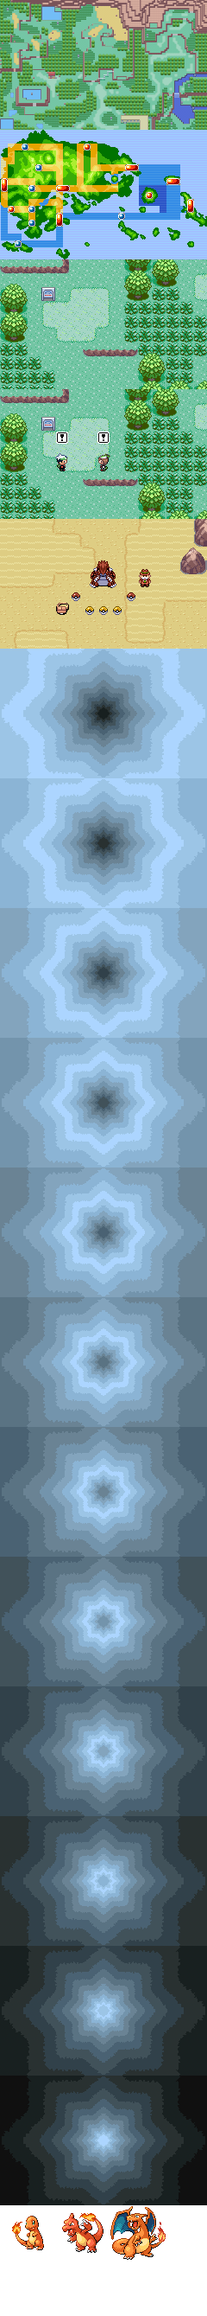
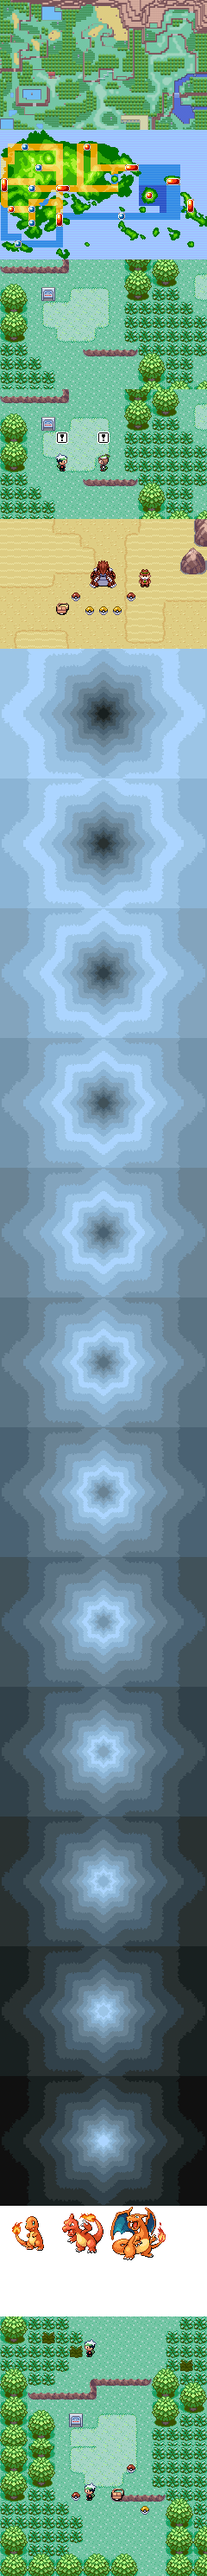
How to Play: Encounters and Item pickups panels (HBR-66)
Two panels after the drop, each over a picture from export-howto.py's sheet:
Route 101's grass with darkened patches, and items on the ground with a fallen
trainer's bag. The read flag's value goes to '2' so the menu's NEW comes back
for players who read the seven-panel version.

Claude-Session: https://claude.ai/code/session_01BUfB6vuHFfG64M3wNWtBao

diff --git a/web/src/ui/howto.test.ts b/web/src/ui/howto.test.ts
@@ -1,9 +1,9 @@
-// HOW TO PLAY (POK-429, POK-430): Cam's seven panels, NEXT through them, BACK and SKIP,
+// HOW TO PLAY (POK-429, POK-430, HBR-66): Cam's nine panels, NEXT through them, BACK and SKIP,
 // every word fits, and the pictures that move do.
 import { describe, expect, it, vi } from 'vitest';
 import { ART_H, EVOLVE_MS, FRAME_MS, HOWTO_KEY, PANELS, SHEET, confetti, evolveFrame, howToScreen, markHowToDue, takeHowToDue } from './howto';
 import { measure, wrapText } from './emerald';
-import { HOWTO_READ_KEY, howToRead, markHowToRead } from './howto-due';
+import { HOWTO_READ, HOWTO_READ_KEY, howToRead, markHowToRead } from './howto-due';
 import { W } from './screens';
 import { fakeCanvas } from './fakecanvas';
 import type { DrawnScreen } from './stage';
@@ -23,10 +23,12 @@ describe('the HOW TO PLAY screen', () => {
   const screenAt = (t = 0, skin = 0, onDone = vi.fn(), redraw?: () => void) =>
     howToScreen(() => ({ skin, onDone, redraw, now: () => t }));
 
-  it("is Cam's seven sections, in his order", () => {
+  it("is Cam's nine sections, in his order", () => {
     expect(PANELS.map((p) => p.title)).toEqual([
       'Start in Safari',
       'Where we flying?',
+      'Encounters',
+      'Item pickups',
       'Weezing Fog',
       'Leveling up',
       'Battles',
@@ -38,7 +40,7 @@ describe('the HOW TO PLAY screen', () => {
   it('opens on the Safari with NEXT and SKIP, NEXT first so A alone clicks through', () => {
     const { painted, byId } = paint(screenAt());
     expect(byId('howto-heading')!.text).toBe('Start in Safari');
-    expect(byId('howto-page')!.text).toBe('1/7');
+    expect(byId('howto-page')!.text).toBe('1/9');
     const buttons = painted.widgets.filter((w) => w.onPress).map((w) => w.id);
     expect(buttons).toEqual(['howto-next', 'howto-skip']);
   });
@@ -56,7 +58,7 @@ describe('the HOW TO PLAY screen', () => {
     expect(last.painted.widgets.filter((w) => w.onPress).map((w) => w.id)).toEqual(['howto-done', 'howto-back']);
     press(screen, 'howto-done');
     expect(onDone).toHaveBeenCalledTimes(1);
-    expect(paint(screen).byId('howto-page')!.text, 'opened again, it starts at the top').toBe('1/7');
+    expect(paint(screen).byId('howto-page')!.text, 'opened again, it starts at the top').toBe('1/9');
   });
 
   it('leaves from any panel on SKIP or B', () => {
@@ -67,7 +69,7 @@ describe('the HOW TO PLAY screen', () => {
     press(screen, 'howto-next');
     screen.back!();
     expect(onDone).toHaveBeenCalledTimes(2);
-    expect(paint(screen).byId('howto-page')!.text, 'B starts it over too').toBe('1/7');
+    expect(paint(screen).byId('howto-page')!.text, 'B starts it over too').toBe('1/9');
   });
 
   it('keeps the buttons in one place from panel to panel', () => {
@@ -115,21 +117,30 @@ describe('the HOW TO PLAY screen', () => {
 
   it('draws each picture off the sheet, and the fog over the whole screen', () => {
     const screen = screenAt(0, 2);
-    const rows: number[] = [];
-    for (let i = 0; i < 5; i++) {
+    const rows: Record<string, number> = {};
+    for (let i = 0; i < PANELS.length; i++) {
       const { pictures, byId } = paint(screen);
-      const sheet = pictures.filter((p) => p.name === SHEET);
-      rows.push(sheet[0].sy);
-      if (byId('howto-heading')!.text === 'Weezing Fog') {
+      const title = byId('howto-heading')!.text;
+      rows[title] = pictures.filter((p) => p.name === SHEET)[0]?.sy;
+      if (title === 'Weezing Fog') {
         const fog = pictures.filter((p) => p.name === '/field-sprites/fog.png');
         // Five tiles high down the 320 and four across the 240, then the picture's own.
         expect(fog.filter((p) => p.y === 0).length).toBeGreaterThanOrEqual(4);
         expect(Math.max(...fog.map((p) => p.y))).toBeGreaterThanOrEqual(256);
       }
-      press(screen, 'howto-next');
+      if (i < PANELS.length - 1) press(screen, 'howto-next');
     }
-    expect(rows.slice(0, 3)).toEqual([0, ART_H, ART_H * 2]);
-    expect(rows[4], 'the battle').toBe(ART_H * 3);
+    // tools/br/export-howto.py's sheet: five pictures, twelve evolution frames, the three
+    // mons in colour and in white, then the encounters and the pickups.
+    expect(rows).toMatchObject({
+      'Start in Safari': 0,
+      'Where we flying?': ART_H,
+      'Weezing Fog': ART_H * 2,
+      Battles: ART_H * 3,
+      'Special events': ART_H * 4,
+      Encounters: 2678,
+      'Item pickups': 2828,
+    });
   });
 
   it('evolves CHARMANDER to CHARMELEON to CHARIZARD, flashing white between', () => {
@@ -151,9 +162,7 @@ describe('the HOW TO PLAY screen', () => {
       paint(screen);
       vi.advanceTimersByTime(FRAME_MS * 2);
       expect(redraw, 'the Safari stands still').not.toHaveBeenCalled();
-      press(screen, 'howto-next');
-      press(screen, 'howto-next');
-      paint(screen);
+      while (paint(screen).byId('howto-heading')!.text !== 'Weezing Fog') press(screen, 'howto-next');
       paint(screen);
       vi.advanceTimersByTime(FRAME_MS);
       expect(redraw, 'the fog drifts, once a frame however often it is drawn').toHaveBeenCalledTimes(1);
@@ -251,8 +260,10 @@ describe("HOW TO PLAY's NEW on the menu (HBR-30)", () => {
     const store = memoryStore();
     expect(howToRead(store)).toBe(false);
     markHowToRead(store);
-    expect(store.getItem(HOWTO_READ_KEY)).toBe('1');
+    expect(store.getItem(HOWTO_READ_KEY)).toBe(HOWTO_READ);
     expect(howToRead(store)).toBe(true);
+    store.setItem(HOWTO_READ_KEY, '1');
+    expect(howToRead(store), 'read before Encounters and Item pickups: NEW again').toBe(false);
     const refusing = {
       getItem: () => {
         throw new Error('denied');

diff --git a/web/src/ui/howto.ts b/web/src/ui/howto.ts
@@ -1,4 +1,4 @@
-// HOW TO PLAY (POK-429): a match in seven panels, clicked through in a few seconds. Cam:
+// HOW TO PLAY (POK-429): a match in a few panels, clicked through in a few seconds. Cam:
 // "something a user can click thru quickly just to give them the broad strokes of how a
 // game plays out". Offered once after a player's first ROM import, and a row on the menu.
 // POK-430 gave it Cam's own sections and words, each over a picture out of the game's own
@@ -8,7 +8,7 @@ import { ROW_H, W, paintButtons, type ButtonSpec } from './screens';
 import type { DrawnScreen, Painted, Widget } from './stage';
 
 /** What a panel shows above its words: a picture off the sheet, and what moves on it. */
-export type Art = 'safari' | 'hoenn' | 'fog' | 'evolve' | 'battle' | 'event' | 'win';
+export type Art = 'safari' | 'hoenn' | 'encounter' | 'pickup' | 'fog' | 'evolve' | 'battle' | 'event' | 'win';
 
 export interface Panel {
   title: string;
@@ -26,6 +26,16 @@ export const PANELS: readonly Panel[] = [
     title: 'Where we flying?',
     text: 'Pick where in Hoenn you want to drop into. You can find items and Pokémon in houses now.',
     art: 'hoenn',
+  },
+  {
+    title: 'Encounters',
+    text: "Wild Pokémon don't jump out of the grass. Look for the dark patches in grass, caves and water, and step on one to battle what lives there. Once someone takes a patch, it's gone until the Fog moves.",
+    art: 'encounter',
+  },
+  {
+    title: 'Item pickups',
+    text: 'Grab the items you see on the ground. Vitamins boost your whole party on the spot, valuables turn into money, and a Poké Ball is a stack of six. Medicine from the Bag heals your whole party.',
+    art: 'pickup',
   },
   {
     title: 'Weezing Fog',
@@ -57,13 +67,22 @@ export const PANELS: readonly Panel[] = [
 /** tools/br/export-howto.py's sheet: its pictures, the screen's width and this tall. */
 export const SHEET = 'howto.png';
 export const ART_H = 150;
-const ROW: Partial<Record<Art, number>> = { safari: 0, hoenn: 1, fog: 2, battle: 3, event: 4 };
 /** The evolution backdrop's twelve frames, from the sheet's sixth picture down. */
 const EVO_Y = ART_H * 5;
 const EVO_FRAMES = 12;
 /** CHARMANDER, CHARMELEON, CHARIZARD, 64 square; the white ones a row under. */
 const MONS_Y = EVO_Y + ART_H * EVO_FRAMES;
 const MON = 64;
+/** Where each still picture starts on the sheet. */
+const ART_Y: Partial<Record<Art, number>> = {
+  safari: 0,
+  hoenn: ART_H,
+  fog: ART_H * 2,
+  battle: ART_H * 3,
+  event: ART_H * 4,
+  encounter: MONS_Y + MON * 2,
+  pickup: MONS_Y + MON * 2 + ART_H,
+};
 
 const TEXT_W = W - 24;
 const FOG_TILE = 64;
@@ -189,8 +208,8 @@ export function howToScreen(model: () => HowToModel): DrawnScreen {
         r.x + r.w <= words.x || r.x >= words.x + words.w || r.y + r.h <= words.y || r.y >= words.y + words.h;
       if (panel.art === 'win') for (const p of confetti(t, all.x, all.w, h)) if (clear(p.r)) c.fillRect(p.r, p.color);
 
-      const row = ROW[panel.art];
-      if (row !== undefined) c.drawUiPicture(SHEET, 0, row * ART_H, W, ART_H, art.x, art.y);
+      const artY = ART_Y[panel.art];
+      if (artY !== undefined) c.drawUiPicture(SHEET, 0, artY, W, ART_H, art.x, art.y);
       const you = skinSheet(m.skin);
       if (panel.art === 'fog') {
         // You, on Route 101, as the fog rolls over it.

diff --git a/web/e2e/howto.spec.ts b/web/e2e/howto.spec.ts
@@ -23,7 +23,7 @@ test('a first import shows the panels once; the menu row shows them again', asyn
 
   await expect(page.locator('#howto-heading')).toHaveText('Start in Safari', { timeout: 60_000 });
   await page.screenshot({ path: path.join(OUT_DIR, 'howto-first.png') });
-  for (const heading of ['Where we flying?', 'Weezing Fog', 'Leveling up', 'Battles', 'Special events', 'How to win']) {
+  for (const heading of ['Where we flying?', 'Encounters', 'Item pickups', 'Weezing Fog', 'Leveling up', 'Battles', 'Special events', 'How to win']) {
     await page.locator('#howto-next').click();
     await expect(page.locator('#howto-heading')).toHaveText(heading);
   }
@@ -38,7 +38,7 @@ test('a first import shows the panels once; the menu row shows them again', asyn
   await page.locator('#lobby-rows button', { hasText: 'HOW TO PLAY' }).click();
   await expect(page.locator('#howto-heading')).toHaveText('Start in Safari');
   // A alone clicks through: the cursor starts on NEXT, and on DONE at the end.
-  for (let i = 0; i < 6; i++) await page.keyboard.press('z');
+  for (let i = 0; i < 8; i++) await page.keyboard.press('z');
   await expect(page.locator('#howto-heading')).toHaveText('How to win');
   await page.keyboard.press('z');
   await expect(page.locator('#lobby-rows button', { hasText: 'HOW TO PLAY' })).toBeVisible();

diff --git a/web/src/ui/howto-due.ts b/web/src/ui/howto-due.ts
@@ -28,10 +28,13 @@ export function takeHowToDue(store: Storage): boolean {
 /** Set once somebody has paged to HOW TO PLAY's last panel (HBR-30, Cam: "a 'new'
  *  indicator ... dismisses after opening one time and reading all of it"). */
 export const HOWTO_READ_KEY = 'hbr:howto-read';
+/** Raised when panels are added, so the NEW comes back for them: '2' brought in
+ *  Encounters and Item pickups (HBR-66). */
+export const HOWTO_READ = '2';
 
 export function markHowToRead(store: Storage): void {
   try {
-    store.setItem(HOWTO_READ_KEY, '1');
+    store.setItem(HOWTO_READ_KEY, HOWTO_READ);
   } catch {
     // Storage refused: the NEW stays, which is the safe way round.
   }
@@ -40,7 +43,7 @@ export function markHowToRead(store: Storage): void {
 /** Whether the menu's HOW TO PLAY tile can drop its NEW. */
 export function howToRead(store: Storage): boolean {
   try {
-    return store.getItem(HOWTO_READ_KEY) === '1';
+    return store.getItem(HOWTO_READ_KEY) === HOWTO_READ;
   } catch {
     return false;
   }

diff --git a/tools/br/export-howto.py b/tools/br/export-howto.py
@@ -22,6 +22,10 @@ One sheet, 240 wide (the screen's width), its pictures 150 tall, top to bottom:
          Task_UpdateBgPalette runs while a POKéMON evolves (src/evolution_scene.c)
     2550 CHARMANDER, CHARMELEON, CHARIZARD, 64x64 each, in their own colours; under them,
          at 2614, the same three in white, the way they flash while they change
+    2678 encounters (br_patch.c): Route 101's grass with three of its darkened patches,
+         the tall grass's rustle in general_1's palette, and BRENDAN about to step on one
+    2828 item pickups: Route 101 with two item balls, a gold one and a fallen trainer's
+         bag (br_loot.c draws a bag as BIRCH's), BRENDAN about to take the nearest
 
 The field sprites are the sheets export-sprites.py wrote to web/public/field-sprites:
 standing south is frame 0, west frame 2; east is west mirrored, as the ROM draws it.
@@ -39,10 +43,11 @@ SPRITES = ROOT / "web/public/field-sprites"
 SHEETS = json.loads((ROOT / "web/src/data/sprites.json").read_text())
 
 BANG = ROOT / "graphics/field_effects/pics/emotion_exclamation.png"
+FX = ROOT / "graphics/field_effects"
 W, H = 240, 150
 EVO_FRAMES = range(13, 25)
 MONS = ["charmander", "charmeleon", "charizard"]
-SHEET_H = H * 5 + H * len(EVO_FRAMES) + 64 * 2
+SHEET_H = H * 5 + H * len(EVO_FRAMES) + 64 * 2 + H * 2
 
 GFX_BRENDAN, GFX_MAY, GFX_GENTLEMAN = 0, 89, 48
 GFX_ITEM_BALL, GFX_BIRCHS_BAG, GFX_GROUDON = 59, 97, 198
@@ -124,18 +129,43 @@ def gold_ball() -> Image.Image:
 
 
 def event() -> Image.Image:
-    # On whole tiles of the map (the crop is 16-aligned): a 16 wide piece fills its tile,
-    # a 32 wide one stands centred on it, and anything taller stands with its feet on it.
     im = Image.open(MAPS / "MAP_ROUTE111.png").convert("RGBA").crop((336, 848, 336 + W, 848 + H))
-
-    def put(piece: Image.Image, tx: int, ty: int) -> None:
-        im.alpha_composite(piece, (tx * 16 - (piece.width - 16) // 2, (ty + 1) * 16 - piece.height))
+    put = on_tiles(im)
 
     ball, gold, bag = frame(GFX_ITEM_BALL, 0), gold_ball(), frame(GFX_BIRCHS_BAG, 0)
     put(frame(GFX_GROUDON, 0), 7, 4)
     for tx, ty, piece in ((5, 5, ball), (9, 5, ball), (6, 6, gold), (7, 6, gold), (8, 6, gold), (4, 6, bag)):
         put(piece, tx, ty)
     put(frame(GFX_GENTLEMAN, 0), 10, 4)
+    return im
+
+
+def on_tiles(im: Image.Image):
+    """Stand a piece on a whole tile of `im` (cropped 16-aligned): a 16 wide piece fills
+    its tile, a 32 wide one stands centred on it, anything taller with its feet on it."""
+    def put(piece: Image.Image, tx: int, ty: int) -> None:
+        im.alpha_composite(piece, (tx * 16 - (piece.width - 16) // 2, (ty + 1) * 16 - piece.height))
+    return put
+
+
+def encounters() -> Image.Image:
+    im = Image.open(MAPS / "MAP_ROUTE101.png").convert("RGBA").crop((0, 32, W, 32 + H))
+    put = on_tiles(im)
+    # The rustle's second frame, the grass at its widest, reads best standing still.
+    patch = paletted(FX / "pics/br_patch_tall_grass.png", jasc(FX / "palettes/general_1.pal")).crop((16, 0, 32, 16))
+    for tx, ty in ((5, 2), (3, 1), (13, 3)):
+        put(patch, tx, ty)
+    put(frame(GFX_BRENDAN, 2), 6, 2)
+    return im
+
+
+def pickups() -> Image.Image:
+    im = Image.open(MAPS / "MAP_ROUTE101.png").convert("RGBA").crop((0, 160, W, 160 + H))
+    put = on_tiles(im)
+    ball = frame(GFX_ITEM_BALL, 0)
+    for tx, ty, piece in ((5, 3, ball), (9, 1, ball), (10, 4, gold_ball()), (8, 3, frame(GFX_BIRCHS_BAG, 0))):
+        put(piece, tx, ty)
+    put(frame(GFX_BRENDAN, 2), 6, 3)
     return im
 
 
@@ -197,6 +227,8 @@ def main():
     for i, (c, w) in enumerate(zip(colour, white)):
         sheet.paste(c, (i * 64, y))
         sheet.paste(w, (i * 64, y + 64))
+    for i, im in enumerate((encounters(), pickups())):
+        sheet.paste(im, (0, y + 128 + i * H))
     sheet.save(OUT, optimize=True)
     print(f"{OUT.relative_to(ROOT)} {sheet.size[0]}x{sheet.size[1]}, {OUT.stat().st_size} bytes")
 
